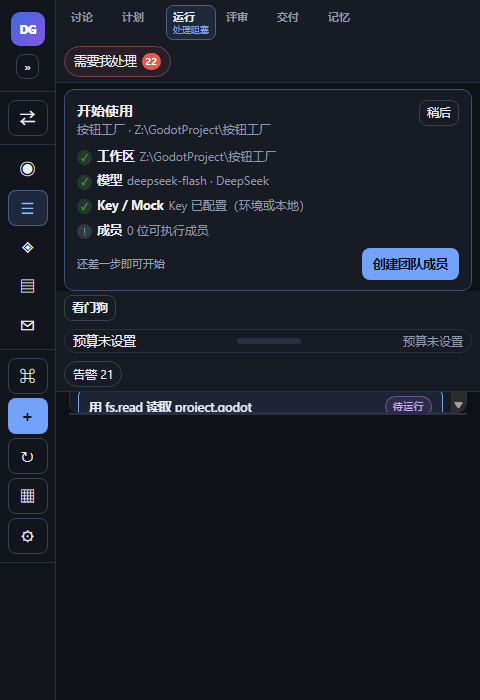
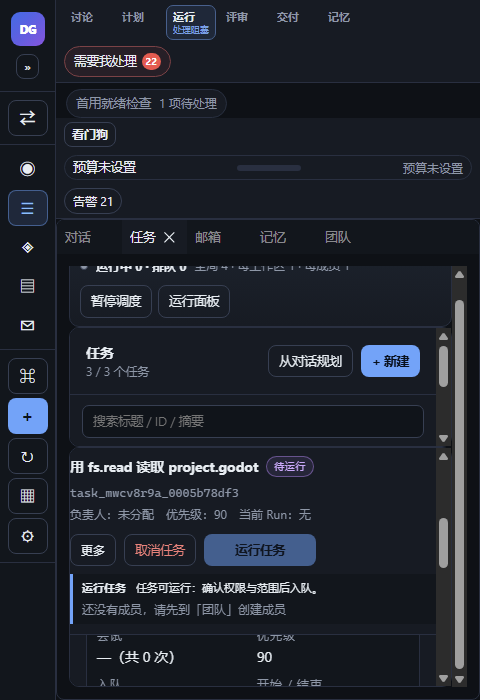
fix(ui): t298 make 480 task detail reachable and serialize key steps
Gives the Tasks detail row a usable minimum height with vertical scrolling at 480, serializes sidebar/task key steps via refs, adds 480 detail/team evidence and updates AC to Captain-accepted CSS 480 baseline. Validation: 102 files/790 tests.

diff --git a/src/App.tsx b/src/App.tsx
@@ -936,16 +936,21 @@ export default function App() {
   }
 
   function stepSidebarWidth(delta: number) {
+    const state = {
+      preferred: sidebarWidthRef.current,
+      displayed: sidebarDisplayWidthRef.current,
+    };
+    const current = displayedSidebarWidth(state, viewportWidthRef.current);
     const next = resizeSidebarWidth(
-      { preferred: sidebarWidth, displayed: sidebarDisplayWidth },
-      viewportWidth,
-      effectiveSidebarWidth + delta,
+      state,
+      viewportWidthRef.current,
+      current + delta,
     );
     sidebarWidthRef.current = next.preferred;
     sidebarDisplayWidthRef.current = next.displayed;
     setSidebarWidth(next.preferred);
     setSidebarDisplayWidth(next.displayed);
-    if (viewportWidth > 1100) {
+    if (viewportWidthRef.current > 1100) {
       localStorage.setItem("deer.sidebarWidth", String(next.preferred));
     }
   }
@@ -4173,6 +4178,7 @@ function TasksView({
   );
   const layoutRef = useRef<HTMLDivElement | null>(null);
   const listWidthRef = useRef(listWidth);
+  const listLayoutWidthRef = useRef(0);
   const resizingListRef = useRef(false);
   const [listLayoutWidth, setListLayoutWidth] = useState(0);
 
@@ -4182,7 +4188,11 @@ function TasksView({
       setListLayoutWidth(0);
       return;
     }
-    const measure = () => setListLayoutWidth(node.getBoundingClientRect().width);
+    const measure = () => {
+      const width = node.getBoundingClientRect().width;
+      listLayoutWidthRef.current = width;
+      setListLayoutWidth(width);
+    };
     measure();
     if (typeof ResizeObserver === "undefined") return;
     const observer = new ResizeObserver(measure);
@@ -4235,7 +4245,8 @@ function TasksView({
   }
 
   function stepListWidth(delta: number) {
-    const next = clampTaskListWidth(actualListWidth + delta, listLayoutWidth);
+    const actual = clampTaskListWidth(listWidthRef.current, listLayoutWidthRef.current);
+    const next = clampTaskListWidth(actual + delta, listLayoutWidthRef.current);
     listWidthRef.current = next;
     setListWidth(next);
     localStorage.setItem("deer.taskListWidth", String(next));

diff --git a/src/shell/SeparatorControl.test.tsx b/src/shell/SeparatorControl.test.tsx
@@ -2,7 +2,7 @@
 import TestRenderer from "react-test-renderer";
 import { describe, expect, it, vi } from "vitest";
 import SeparatorControl from "./SeparatorControl.js";
-import { clampSidebarWidth, sidebarMaxWidth } from "./dock/narrowWindow.js";
+import { clampSidebarWidth, resizeSidebarWidth, sidebarMaxWidth } from "./dock/narrowWindow.js";
 import { clampTaskListWidth, taskListMaxWidth } from "./taskListWidth.js";
 
 const { act, create } = TestRenderer as {
@@ -66,5 +66,22 @@ describe("t296 keyboard resizer", () => {
     expect(taskListMaxWidth(760)).toBe(395);
     expect(taskListMaxWidth(480)).toBe(280);
     expect(clampTaskListWidth(520, 480)).toBe(280);
+  });
+
+  it("serial rapid key steps do not overshoot", () => {
+    let sidebar: { preferred: number; displayed: number | null } = {
+      preferred: 205,
+      displayed: 205,
+    };
+    for (let index = 0; index < 30; index += 1) {
+      const current = sidebar.displayed ?? sidebar.preferred;
+      sidebar = resizeSidebarWidth(sidebar, 960, current + 16);
+    }
+    expect(sidebar.displayed).toBe(394);
+    let taskWidth = 380;
+    for (let index = 0; index < 30; index += 1) {
+      taskWidth = clampTaskListWidth(taskWidth + 16, 400);
+    }
+    expect(taskWidth).toBe(280);
   });
 });

diff --git a/src/styles.css b/src/styles.css
@@ -8713,3 +8713,16 @@ body li {
     grid-template-columns: minmax(0, 1fr);
   }
 }
+
+/* t298：480 Tasks 单列必须给详情可用高度；整行可纵向滚动，避免被压成 0。 */
+@container tasks-panel (max-width: 640px) {
+  .tasks-layout {
+    grid-template-rows: auto minmax(120px, 180px) minmax(240px, 1fr);
+    overflow-y: auto;
+    align-content: start;
+  }
+
+  .tasks-layout > .task-detail-panel {
+    min-height: 240px;
+  }
+}

diff --git a/src/a11yBaseline.test.ts b/src/a11yBaseline.test.ts
@@ -54,6 +54,8 @@ describe("t292 accessibility baseline", () => {
     expect(css).toContain("prefers-reduced-motion: reduce");
     expect(css).toContain("@media (max-width: 560px)");
     expect(css).toContain("grid-template-columns: minmax(0, 1fr) !important");
+    expect(css).toContain("minmax(240px, 1fr)");
+    expect(css).toContain("min-height: 240px");
     expect(css).toContain(".skip-link:focus");
   });
 

diff --git a/docs/team/a11y-baseline.md b/docs/team/a11y-baseline.md
@@ -89,8 +89,16 @@
 - 对比测试改为从 `styles.css` 读取 `--text/--muted/--bg/--panel` token，而不是硬编码 hex。
 - 新增交互测试：`SeparatorControl.test.tsx`（aria/clamp/Arrow/Home）、`SkipLink.test.tsx`、`Toast.test.tsx`（focus pause）、Chat tabs Home/End。
 
-### 验证范围声明（需产品确认）
+### 验证范围声明（Captain t297 裁决）
 
-- 200% 证据使用真实 Electron + CDP **CSS 视口 480**，不是 OS 级 200%/DPR2 真机设置；DPR2/真实系统缩放、读屏软件（NVDA/VoiceOver）仍应在发布前走查。
-- 本 PR 的验收按“CSS 视口基线”成立；若要对外宣称 OS 200% 通过，需产品确认后再补一次真实系统缩放/DPR2 截图。
+- 本 PR 的 200% 验收明确按 **真实 Electron 480 CSS 视口基线**，不是 OS 级 200%/DPR2；不宣称 OS 200% 全通过。
+- Captain t297 已接受该基线范围；真实系统缩放/DPR2、读屏软件（NVDA/VoiceOver）真机走查列为 P1 后续，不阻塞本 PR。
 - CI 保留 extended/单跑宽限；plain 全量 5s 并发问题为既有 openai/watchdog/git flake，不归因本 PR。
+
+## t298 补强：480 Tasks 详情与证据
+
+- **Tasks 详情可用高度**：容器 ≤640 时 `.tasks-layout` 改为 `auto / minmax(120px,180px) list / minmax(240px,1fr) detail` 且 `overflow-y:auto`；`.task-detail-panel min-height:240px`，不再被压成 0。真实 Electron 480 选中任务后实测 detail clientHeight=238、top=447、tabs（概览/运行/评审/Git/历史）均在 DOM，字段/描述/验收/Review/Run 文本可达；整行纵向滚动可达详情。
+- **证据**：`t292-a11y-480-tasks-detail.png`（详情/字段）、`t292-a11y-480-team-scrolled.png`（滚动后团队/星图，members=2、star-map=true）、`t292-a11y-resizer-960.png`。
+- **200% 裁决**：Captain t297 明确接受真实 Electron 480 CSS 视口基线；文档已写“非 OS 200%/DPR2，真机/读屏为 P1 后续”，不虚报 OS 全通过。
+- **快速连按**：`stepSidebarWidth` 用 `sidebarWidthRef/displayedSidebarWidth` 串行，`stepListWidth` 用 `listWidthRef/layoutWidthRef`；30 次快速 Arrow 测试仍停在 394/280，不超界。
+- **DOM 断言**：Separator/Skip/Toast/Chat tabs 交互测试 + 480 detail CSS/可见性证据；对比 token 测试保留。
